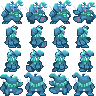
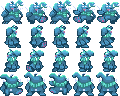
Monster attack frames

diff --git a/src/characters.ts b/src/characters.ts
@@ -15,6 +15,7 @@ import { Direction } from "./types/Direction";
 import { Mode } from "./modes";
 import { Move } from "./types/Move";
 import { Step } from "./types/Step";
+import { monsterAttackDuration } from "./constants/monsterAttackDuration";
 import { state } from "./state";
 import { walkDuration } from "./constants/walkDuration";
 
@@ -31,6 +32,7 @@ interface CharacterOptions {
 
 export class Character extends Definable {
   private readonly _options: CharacterOptions;
+  private _attackedAt: number | null = null;
   private _direction: Direction = Direction.Down;
   private _hp: number;
   private _knockback: Knockback | null = null;
@@ -46,6 +48,12 @@ export class Character extends Definable {
       animationID: (): string => {
         const step: string = this._step;
         const direction: string = this._direction;
+        if (
+          this._attackedAt !== null &&
+          getCurrentTime() <= this._attackedAt + monsterAttackDuration
+        ) {
+          return `attack-${direction}`;
+        }
         if (this._move !== null) {
           const { endPosition, startPosition, time } = this._move;
           if (getCurrentTime() <= time + walkDuration) {
@@ -306,6 +314,58 @@ export class Character extends Definable {
           ],
           id: "walk-up-step-left",
         },
+        {
+          frames: [
+            {
+              height: 24,
+              sourceHeight: 24,
+              sourceWidth: 24,
+              sourceX: 96,
+              sourceY: 0,
+              width: 24,
+            },
+          ],
+          id: "attack-down",
+        },
+        {
+          frames: [
+            {
+              height: 24,
+              sourceHeight: 24,
+              sourceWidth: 24,
+              sourceX: 96,
+              sourceY: 24,
+              width: 24,
+            },
+          ],
+          id: "attack-right",
+        },
+        {
+          frames: [
+            {
+              height: 24,
+              sourceHeight: 24,
+              sourceWidth: 24,
+              sourceX: 96,
+              sourceY: 48,
+              width: 24,
+            },
+          ],
+          id: "attack-left",
+        },
+        {
+          frames: [
+            {
+              height: 24,
+              sourceHeight: 24,
+              sourceWidth: 24,
+              sourceX: 96,
+              sourceY: 72,
+              width: 24,
+            },
+          ],
+          id: "attack-up",
+        },
       ],
       imagePath: this._options.imagePath,
     });
@@ -424,6 +484,10 @@ export class Character extends Definable {
 
   public restoreHealth(health: number): void {
     this._hp = Math.min(this._hp + health, this._options.maxHP);
+  }
+
+  public startAttackAnimation(): void {
+    this._attackedAt = getCurrentTime();
   }
 
   public startKnockback(endPosition: EntityPosition): void {

diff --git a/src/monsterInstances.ts b/src/monsterInstances.ts
@@ -186,6 +186,7 @@ export class MonsterInstance extends Definable {
       playAudioSource("monster-attack", {
         volumeChannelID: sfxVolumeChannelID,
       });
+      this.character.startAttackAnimation();
     }
   }
 
